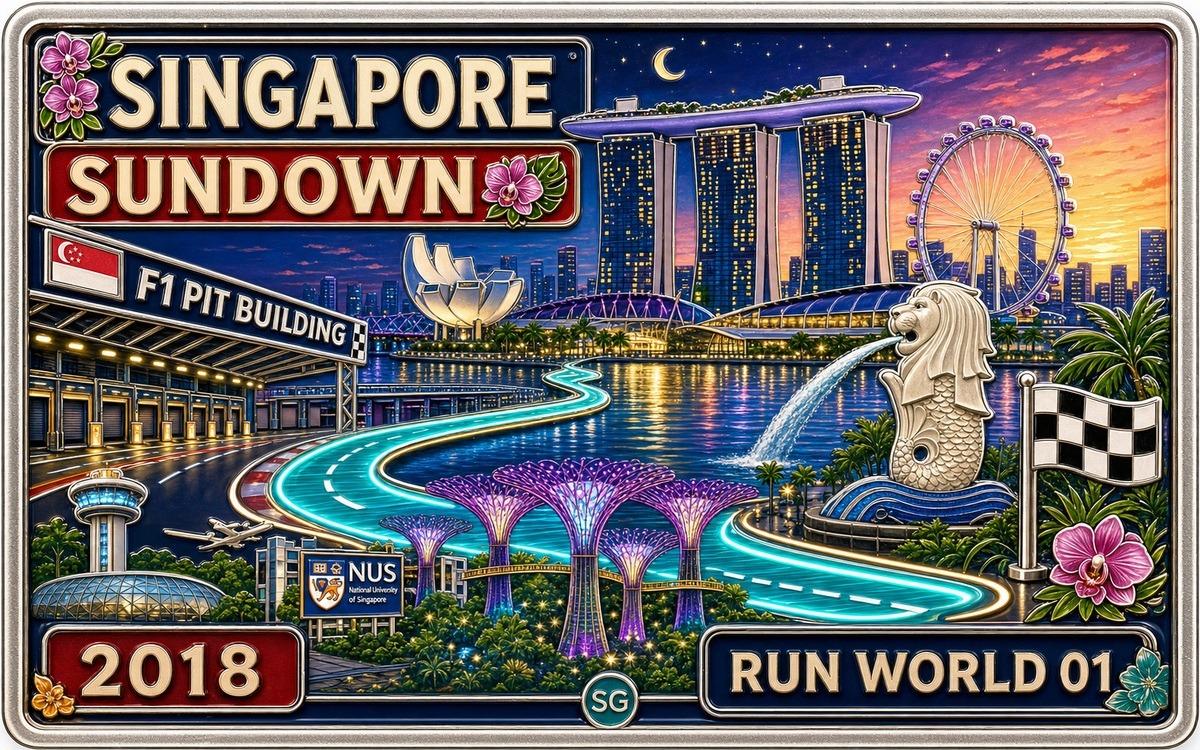
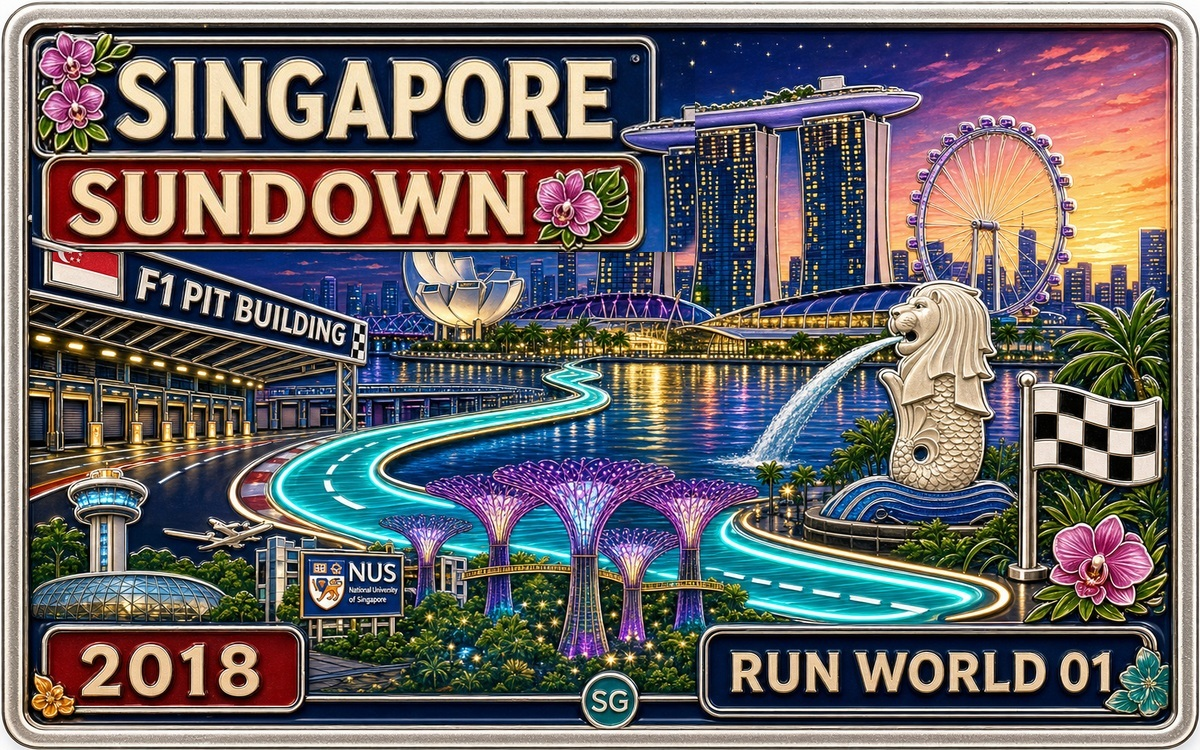
covers: enlarge Singapore RunWorld title

Changed region(s): [[0.0, 0.0307, 0.5858, 0.3373]]

diff --git a/run50/facebook/singapore-sundown-marathon.html b/run50/facebook/singapore-sundown-marathon.html
@@ -11,9 +11,9 @@
   <meta property="og:type" content="article">
   <meta property="og:url" content="https://arsenanzz.github.io/ZZ/run50/facebook/singapore-sundown-marathon.html">
   <meta property="og:site_name" content="ArsenanZZ">
-  <meta property="og:image" content="https://arsenanzz.github.io/ZZ/assets/cover-medal-singapore-sundown-marathon.jpg?v=20260619-medal">
+  <meta property="og:image" content="https://arsenanzz.github.io/ZZ/assets/cover-medal-singapore-sundown-marathon.jpg?v=20260623-title-size">
   <meta name="twitter:card" content="summary_large_image">
-  <meta name="twitter:image" content="https://arsenanzz.github.io/ZZ/assets/cover-medal-singapore-sundown-marathon.jpg?v=20260619-medal">
+  <meta name="twitter:image" content="https://arsenanzz.github.io/ZZ/assets/cover-medal-singapore-sundown-marathon.jpg?v=20260623-title-size">
   <link rel="stylesheet" href="../../assets/zz-engagement.css?v=20260617">
   <style>
     :root { --red:#cc2424; --ink:#111111; --muted:#666666; --line:#d9d9d9; --soft:#f4f4f4; --paper:#ffffff; }
@@ -70,7 +70,7 @@
       <h1>Singapore brought me back to a ten-year promise and a midnight marathon</h1>
       <p class="dek">Ten years later, I returned to Singapore: from Changi and NTU to the Sundown Marathon, finding old heat between night and morning.</p>
       <div class="byline"><span>By Arsenan</span><span>Singapore</span><span>2018 archive</span></div>
-      <figure class="lead-media"><img src="../../assets/cover-medal-singapore-sundown-marathon.jpg?v=20260619-medal" alt="Singapore Sundown Marathon medal cover"><figcaption>Singapore · RunWorld</figcaption></figure>
+      <figure class="lead-media"><img src="../../assets/cover-medal-singapore-sundown-marathon.jpg?v=20260623-title-size" alt="Singapore Sundown Marathon medal cover"><figcaption>Singapore · RunWorld</figcaption></figure>
     </section>
     <section class="story-grid">
       <aside class="rail">

diff --git a/run50/stories/chinese/singapore-sundown-marathon.html b/run50/stories/chinese/singapore-sundown-marathon.html
@@ -11,9 +11,9 @@
   <meta property="og:type" content="article">
   <meta property="og:url" content="https://arsenanzz.github.io/ZZ/run50/stories/chinese/singapore-sundown-marathon.html">
   <meta property="og:site_name" content="ArsenanZZ">
-  <meta property="og:image" content="https://zhennanzhang.com/assets/cover-medal-singapore-sundown-marathon.jpg?v=20260619-new4-medal">
+  <meta property="og:image" content="https://zhennanzhang.com/assets/cover-medal-singapore-sundown-marathon.jpg?v=20260623-title-size">
   <meta name="twitter:card" content="summary_large_image">
-  <meta name="twitter:image" content="https://zhennanzhang.com/assets/cover-medal-singapore-sundown-marathon.jpg?v=20260619-new4-medal">
+  <meta name="twitter:image" content="https://zhennanzhang.com/assets/cover-medal-singapore-sundown-marathon.jpg?v=20260623-title-size">
   <link rel="stylesheet" href="../../../assets/zz-engagement.css?v=20260617">
   <style>
     :root {
@@ -63,7 +63,7 @@
     <h1>RunWorld #第1站｜新加坡 Sundown Marathon：十年之约，归来仍是少年</h1>
     <div class="meta"><span>Arsenan</span><span>2018 归档</span><span>RunWorld</span></div>
     <p class="dek">十年之后，再下南洋：从樟宜、南洋理工到 Sundown Marathon，在新加坡的夜与晨之间，确认自己仍然可以热血。</p>
-    <img class="cover" src="../../../assets/cover-medal-singapore-sundown-marathon.jpg?v=20260619-new4-medal" alt="RunWorld #第1站｜新加坡 Sundown Marathon：十年之约，归来仍是少年 cover" loading="eager" decoding="async">
+    <img class="cover" src="../../../assets/cover-medal-singapore-sundown-marathon.jpg?v=20260623-title-size" alt="RunWorld #第1站｜新加坡 Sundown Marathon：十年之约，归来仍是少年 cover" loading="eager" decoding="async">
   </header>
   <main class="article-shell"><article class="article-body">
       <p>尚未佩妥剑，转眼便江湖。</p>

diff --git a/run50/stories/chinese/index.html b/run50/stories/chinese/index.html
@@ -924,7 +924,7 @@
 
 
         <a class="story-card run-world" href="./singapore-sundown-marathon.html">
-          <img src="../../../assets/cover-medal-singapore-sundown-marathon.jpg?v=20260619-new4-medal" alt="RunWorld #第1站｜新加坡 Sundown Marathon：十年之约，归来仍是少年封面" loading="lazy" decoding="async">
+          <img src="../../../assets/cover-medal-singapore-sundown-marathon.jpg?v=20260623-title-size" alt="RunWorld #第1站｜新加坡 Sundown Marathon：十年之约，归来仍是少年封面" loading="lazy" decoding="async">
           <div class="story-copy">
             <p class="story-meta">新加坡 · 2018 归档</p>
             <h2 class="story-title">RunWorld #第1站｜新加坡 Sundown Marathon：十年之约，归来仍是少年</h2>

diff --git a/run50/facebook/index.html b/run50/facebook/index.html
@@ -640,7 +640,7 @@
       </div>
       <div class="story-grid" aria-label="RunWorld Stories">
         <a class="story-card run-world" href="./singapore-sundown-marathon.html">
-          <img src="../../assets/cover-medal-fb-singapore-sundown-marathon.jpg?v=20260622-fb-en" alt="Singapore Sundown Marathon cover" loading="lazy" decoding="async">
+          <img src="../../assets/cover-medal-fb-singapore-sundown-marathon.jpg?v=20260623-title-size" alt="Singapore Sundown Marathon cover" loading="lazy" decoding="async">
           <div class="story-copy">
             <p class="story-meta">Singapore · RunWorld #1</p>
             <h2 class="story-title">Singapore brought me back to a ten-year promise and a midnight marathon</h2>
